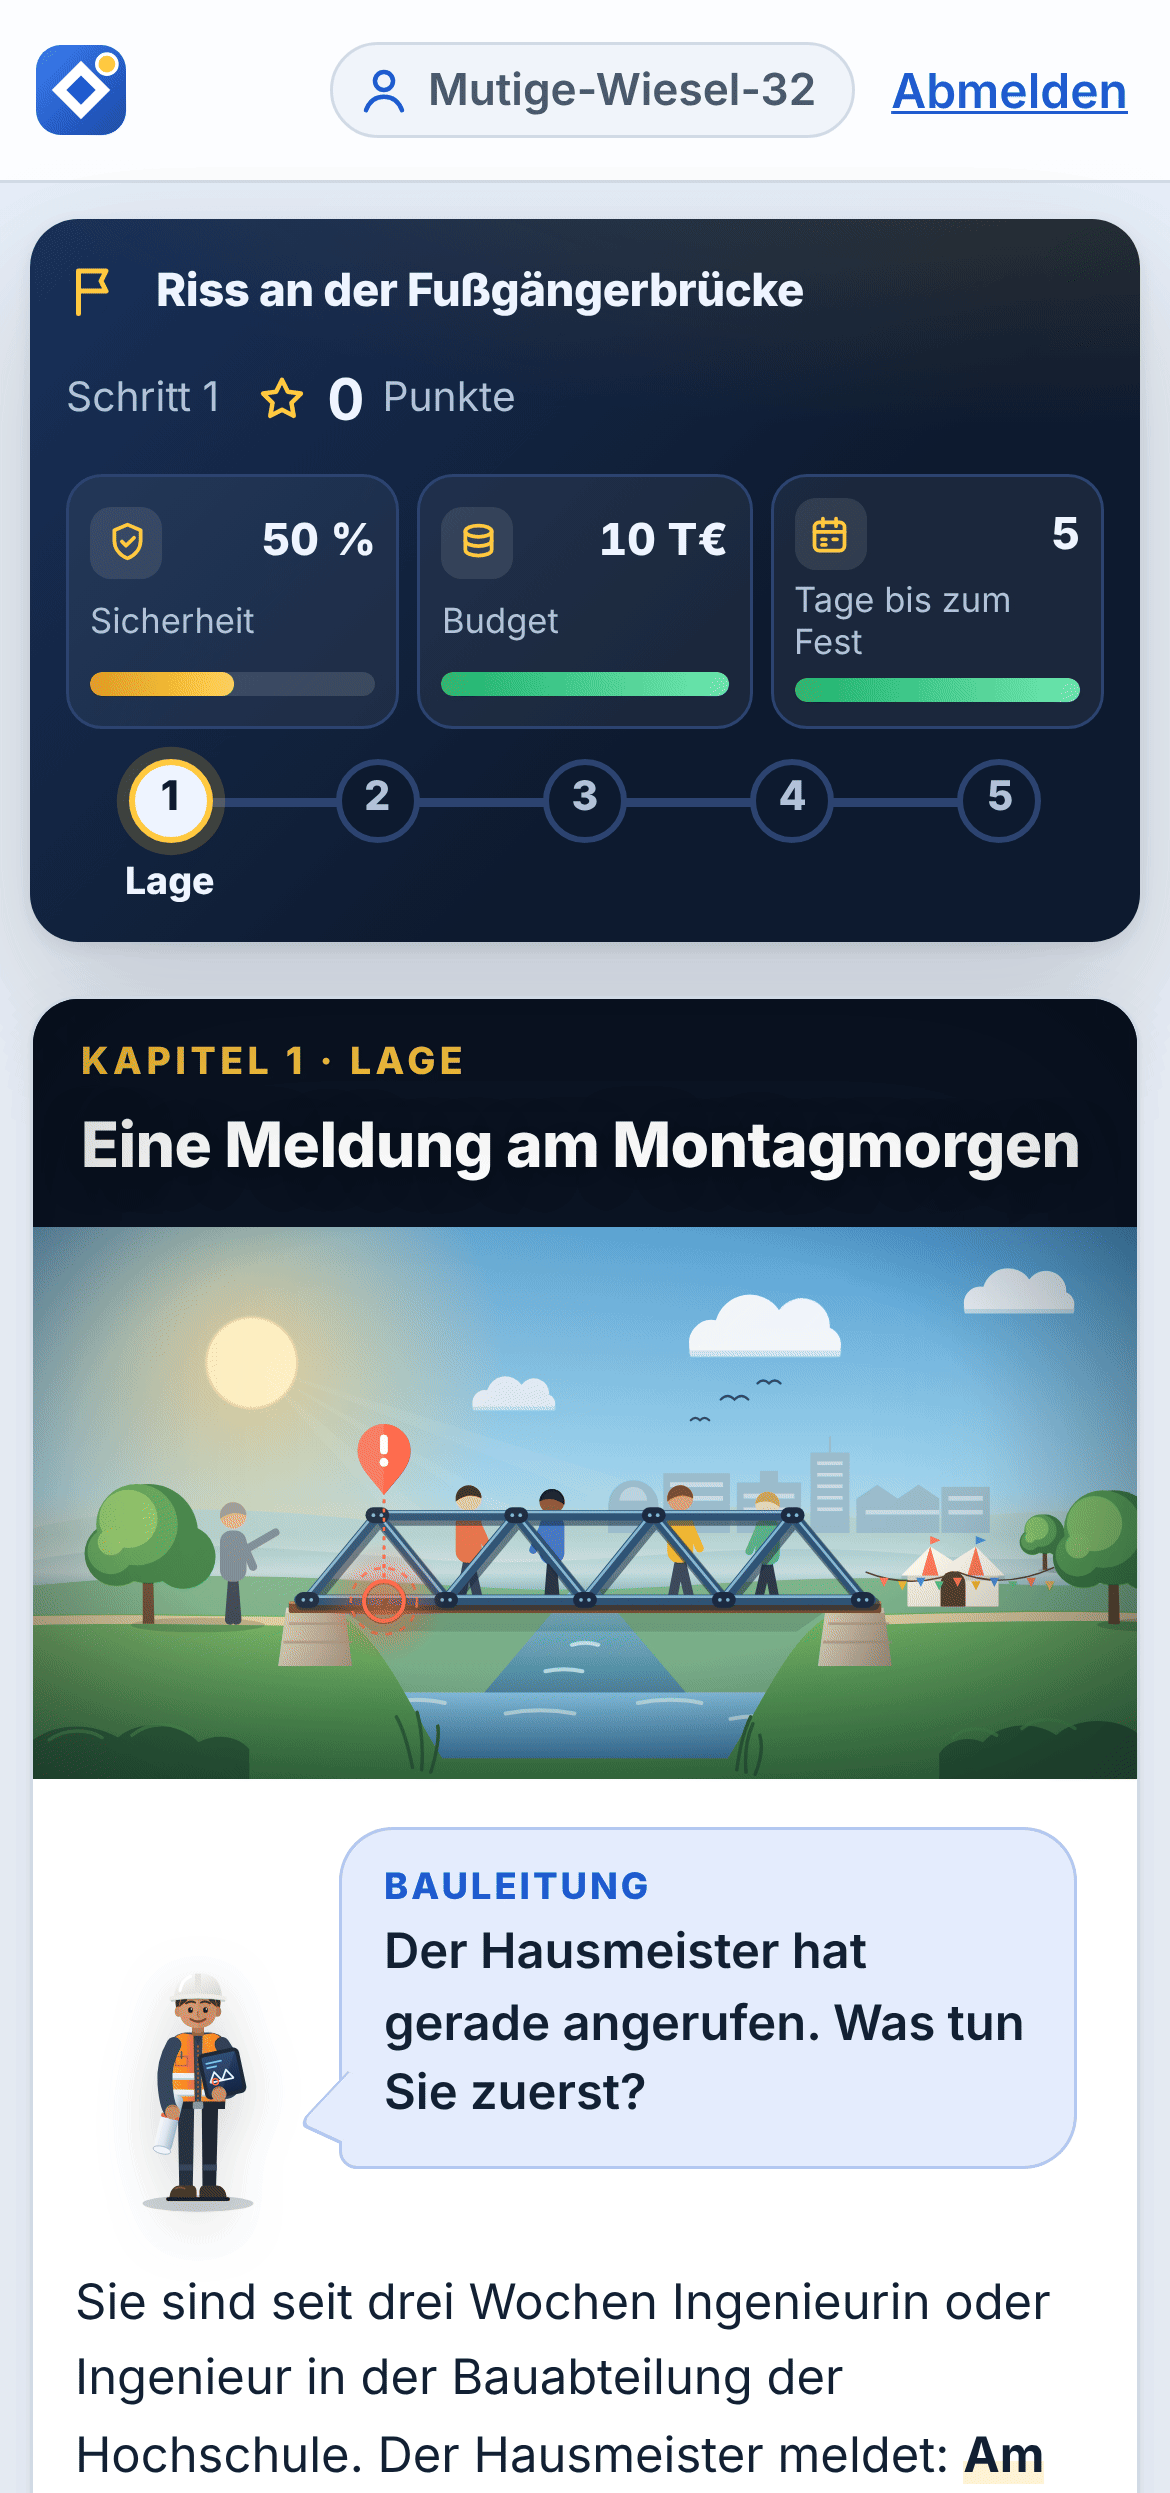
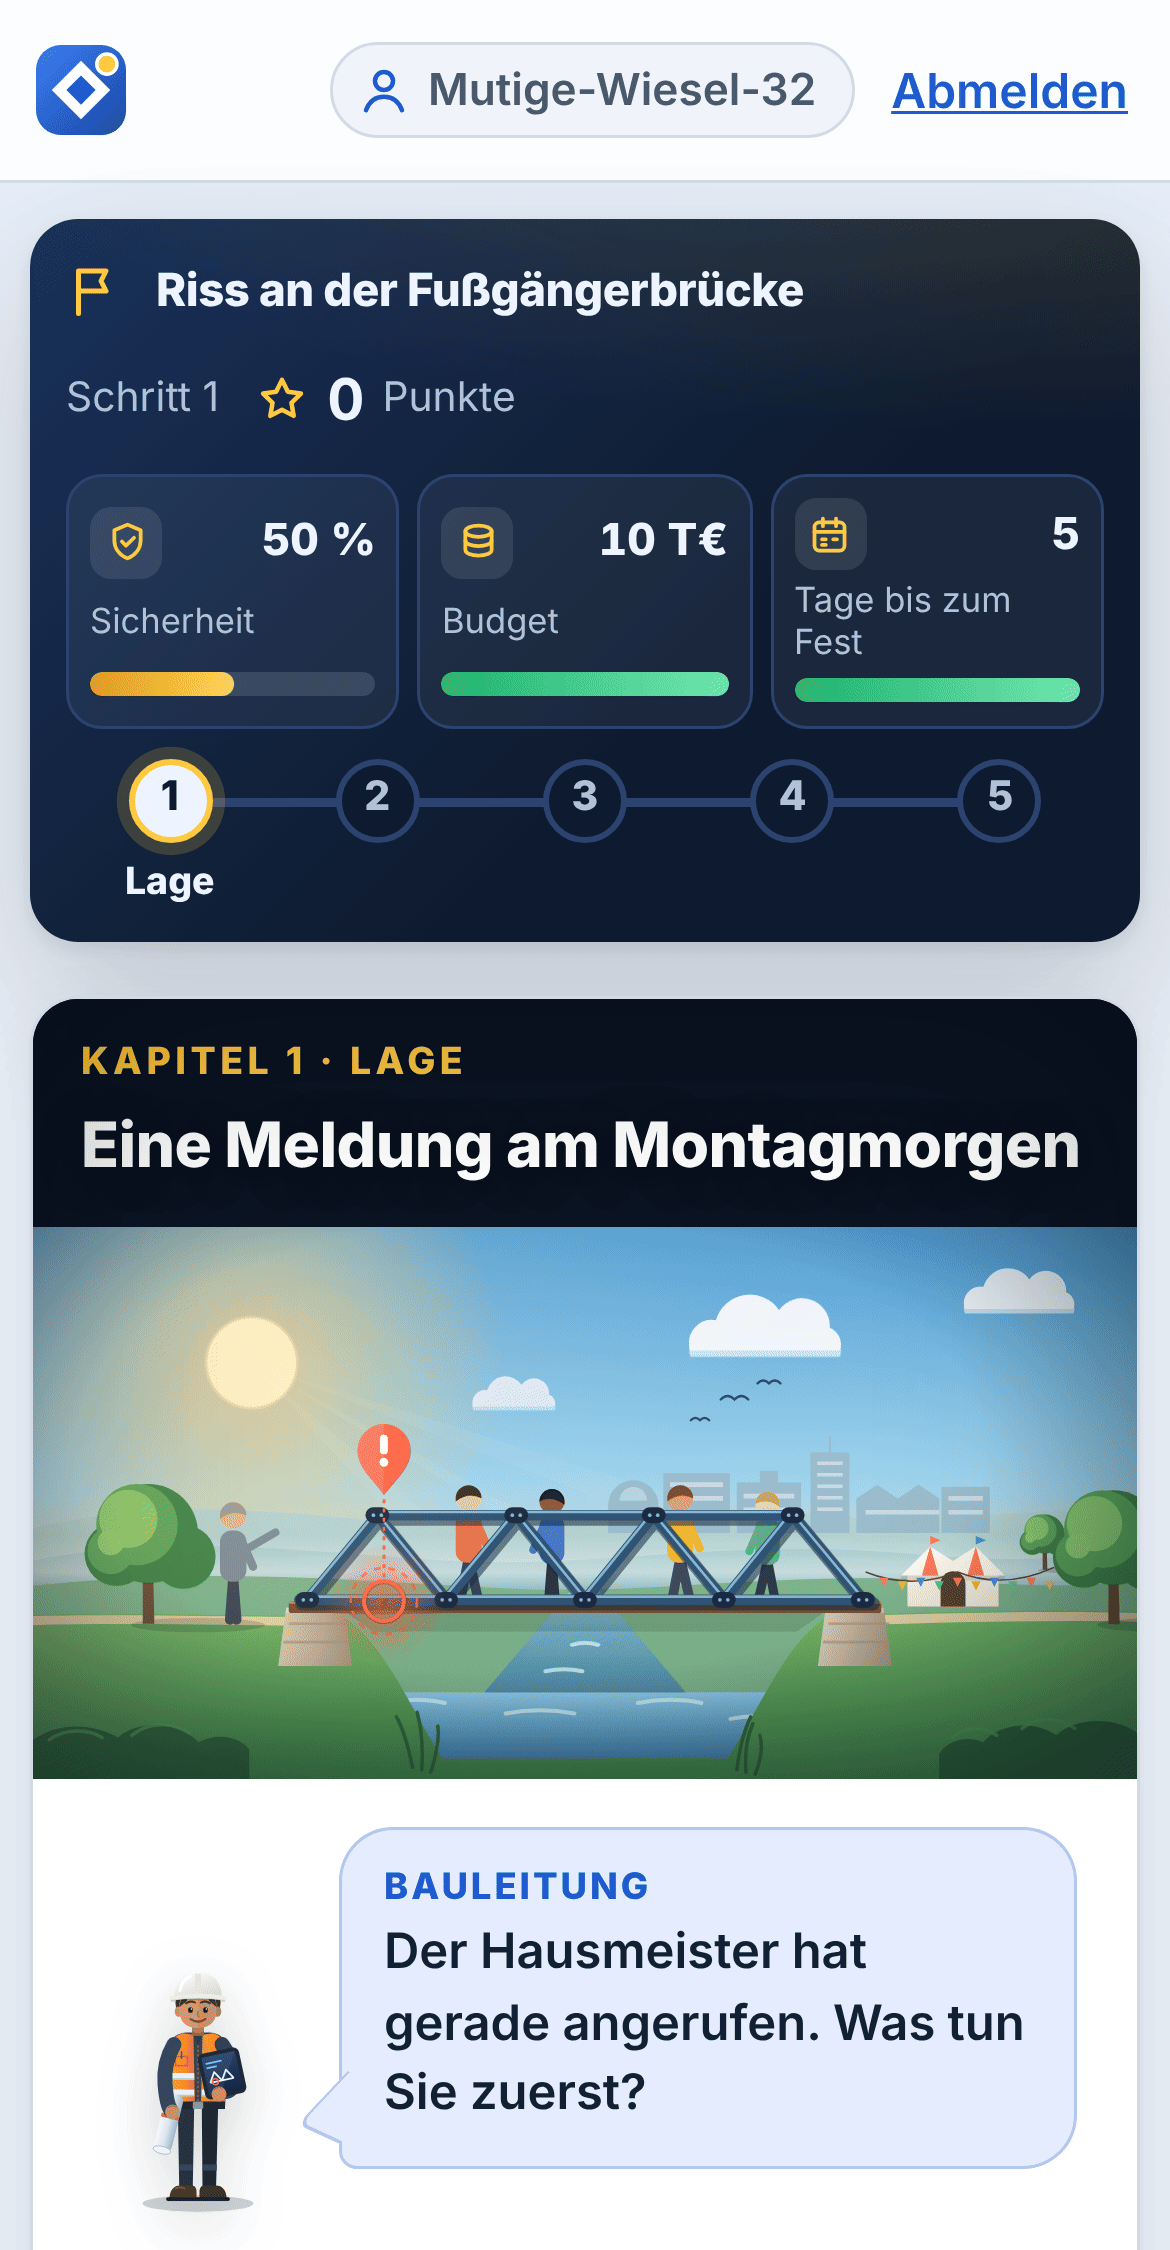
README: Satz mit Verb, „in Chromium“, Telefonbild ganz; Offline-Fassung 322 KB (Bytes statt Zeichen); ERWEITERN: Signatur von pruefe()

diff --git a/tools/oer-export.js b/tools/oer-export.js
@@ -18,4 +18,4 @@ mkdirSync(values.ziel, { recursive: true });
 const name = `${s.id}-v${s.version}`;
 writeFileSync(join(values.ziel, `${name}.html`), html);
 writeFileSync(join(values.ziel, `${name}.metadaten.json`), JSON.stringify(metadaten, null, 2) + '\n');
-console.log(`${join(values.ziel, name)}.html (${Math.round(html.length / 1024)} KB) und .metadaten.json geschrieben`);
+console.log(`${join(values.ziel, name)}.html (${Math.round(Buffer.byteLength(html) / 1024)} KB) und .metadaten.json geschrieben`);

diff --git a/README.md b/README.md
@@ -12,13 +12,13 @@ Spiele entstehen als Datei statt als Programm. Das läuft heute – ansehen, sel
 
 | Was Sie brauchen | läuft hier schon |
 |---|---|
-| Lernspiele im Browser, auf dem Telefon wie am Rechner | zwei Beispielspiele (Technische Mechanik, Elektrotechnik) mit Szenenbildern, Spielfigur mit Sprechblase, Spielanzeige, Kapitelkarte, Sternen und Auszeichnungen; das Brückenspiel im Chromium auf Rechner- und Telefonbreite und im dunklen Schema durchgespielt (09.11.2026) |
+| Lernspiele im Browser, auf dem Telefon wie am Rechner | zwei Beispielspiele (Technische Mechanik, Elektrotechnik) mit Szenenbildern, Spielfigur mit Sprechblase, Spielanzeige, Kapitelkarte, Sternen und Auszeichnungen; das Brückenspiel in Chromium auf Rechner- und Telefonbreite und im dunklen Schema durchgespielt (09.11.2026) |
 | Entscheidungen mit Folgen | jede Entscheidung verändert sichtbar Sicherheit, Budget und Tage bis zum Fest; eine fachliche Bewertung und die Spielfigur erklären, warum |
 | Rückmeldung, die beim Lernen hilft | typische Fehler werden erkannt und erklärt; zweiter Versuch, Hinweis, Lösung mit Rechenweg |
 | Lernfortschritt und Auswertung für Lehrende | Stand je Lernziel; Diagramme: Ausgang der Versuche, je Aufgabe der Anteil „im ersten Versuch richtig“, die häufigsten Fehler, die Verteilung der Entscheidungen |
 | Datenschutz | keine Namen, keine E-Mail-Adressen, zufällige Pseudonyme; Auswertung in der Oberfläche nur als Summen ab 3 Personen; Löschen auf Knopfdruck |
 | Neue Inhalte ohne Programmierung | Lernspiele sind Dateien; die Prüfung meldet Fehler auf Deutsch mit Fundstelle; jede Version bleibt erhalten |
-| Offene Lernressourcen (OER) | Export als eine einzige HTML-Datei (321 KB mit allen Bildern), läuft ohne Server und ohne Internet: 0 Netzanfragen (09.11.2026); Metadaten nach dem Profil AMB |
+| Offene Lernressourcen (OER) | Export als eine einzige HTML-Datei (322 KB mit allen Bildern), läuft ohne Server und ohne Internet: 0 Netzanfragen (09.11.2026); Metadaten nach dem Profil AMB |
 | Viele Studierende | Lasttest mit 300 simulierten Studierenden, mit Denkzeit: 0 Fehler, 95 % der Antworten unter 0,16 s; 200 simulierte im selben Augenblick: 0 Fehler (09.11.2026) |
 | Barrierefreiheit | automatische Prüfung mit axe-core (WCAG 2.0/2.1 A und AA, WCAG 2.2 AA): 0 Verstöße in 22 Zuständen, auch auf dem Telefon und im dunklen Schema (09.11.2026); Farbe trägt nie allein Bedeutung; Bewegung lässt sich abschalten |
 | Schlank und sicher | erste Seite 16 Dateien, 37 KB übertragen, keine Dateien von fremden Servern (09.11.2026); Lösungen und Formeln verlassen den Server nicht |
@@ -32,7 +32,7 @@ Jede Zahl steht mit Messweg im [Messprotokoll vom 09.11.2026](nachweis/PROTOKOLL
 ## In zwei Minuten selbst prüfen
 
 1. **Ohne Installation spielen:** die [Offline-Fassung](demo/fussgaengerbruecke-v2.html) öffnen, rechts über dem
-   Quelltext auf „Download raw file“ (Pfeil nach unten) klicken, die Datei (321 KB) per Doppelklick im Browser öffnen.
+   Quelltext auf „Download raw file“ (Pfeil nach unten) klicken, die Datei (322 KB) per Doppelklick im Browser öffnen.
    Das Brückenspiel läuft vollständig, ohne Server und ohne Internet; der Fortschritt bleibt auf Ihrem Gerät.
    (Gemessen in Chrome.)
 2. **Die ganze Anwendung starten** – mit [Docker Desktop](https://www.docker.com/products/docker-desktop/), drei
@@ -68,7 +68,7 @@ Jede Zahl steht mit Messweg im [Messprotokoll vom 09.11.2026](nachweis/PROTOKOLL
 <td valign="top"><img src="medien/bild-ergebnis.png" alt="Ergebnis „Sicher zum Fest“: Feuerwerk über der Brücke, drei von drei Sternen, 40 von 45 Punkten, drei von fünf Auszeichnungen und der Stand je Lernziel"><br><sub>Ergebnis: Sterne, Punkte, Auszeichnungen und der Stand je Lernziel.</sub></td>
 </tr>
 <tr>
-<td valign="top" align="center"><img src="medien/bild-telefon.png" width="300" alt="Das Brückenspiel auf einem Telefon: Spielanzeige, Kapitelkarte, Szenenbild, Bauleitung mit Sprechblase und der Anfang des Szenentexts"><br><sub>Auf dem Telefon: dasselbe Spiel im Browser, ohne App.</sub></td>
+<td valign="top" align="center"><img src="medien/bild-telefon.png" width="300" alt="Das Brückenspiel auf einem Telefon: Spielanzeige, Kapitelkarte, Szenenbild und Bauleitung mit Sprechblase"><br><sub>Auf dem Telefon: dasselbe Spiel im Browser, ohne App.</sub></td>
 <td valign="top"><img src="medien/bild-auswertung.png" alt="Auswertung für Lehrende: Kennzahlen mit Symbolen, Ausgang der Versuche als gestapelter Balken und Ring, je Aufgabe der Anteil im ersten Versuch richtig, häufigste Fehler"><br><sub>Auswertung für Lehrende mit Diagrammen; nur Summen, erst ab drei Personen. Zahlen aus einem Lasttest mit 200 simulierten Studierenden, dazu drei Testdurchläufe.</sub><br><br><img src="medien/bild-szenario-pruefen.png" alt="Bereich für Lehrende: Szenario-Datei prüfen, Fehlermeldung mit Fundstelle: knoten.diagonale.loesung „teta“ ist kein Parameter des Szenarios"><br><sub>Neue Spiele sind Dateien: Die Prüfung meldet einen Tippfehler in einer Formel auf Deutsch, mit Fundstelle.</sub></td>
 </tr>
 </table>
@@ -238,8 +238,8 @@ node tools/pruefe.js inhalte/szenarien/*/szenario.json  # Szenarien prüfen
 ```
 
 Die Nachweis-Messung (Lasttest mit 50 und 200 simulierten Personen im selben Augenblick und 300 simulierten mit
-Denkzeit, Durchspielen im echten Chrome auf Desktop- und Telefonbreite und im dunklen Schema, Barrierefreiheit mit
-axe-core, Offline-Fassung); ohne Docker siehe [Messprotokoll](nachweis/PROTOKOLL.md):
+Denkzeit, Durchspielen in echtem Chrome auf Desktop- und Telefonbreite und im dunklen Schema, Barrierefreiheit mit
+axe-core, Offline-Fassung) startet mit Docker so; ohne Docker siehe [Messprotokoll](nachweis/PROTOKOLL.md):
 
 ```bash
 docker compose -p spielbaukasten-nachweis -f compose.nachweis.yaml up --build --abort-on-container-exit --exit-code-from messung

diff --git a/docs/ERWEITERN.md b/docs/ERWEITERN.md
@@ -8,7 +8,7 @@ bleiben unverändert.
    ```js
    export const zuordnung = {
      typ: 'zuordnung',
-     pruefe(def, pfad) { return []; },               // Fehler im Szenario: [{ pfad, meldung }]
+     pruefe(def, pfad, { bekannteNamen }) { return []; },  // Fehler im Szenario: [{ pfad, meldung }]
      loesung(def, werte) { return '…'; },            // Text, der nach dem letzten Fehlversuch erscheint
      bewerte(def, antwort, werte) {                  // { gueltig, richtig, rueckmeldung, typ? }
        return { gueltig: true, richtig: false, rueckmeldung: '…' };

diff --git a/nachweis/PROTOKOLL.md b/nachweis/PROTOKOLL.md
@@ -101,7 +101,7 @@ ohne Server) im Browser auf Telefonbreite durchgespielt: **Erfolg**, **0 Netzanf
 dem Spielbaukasten (AGPL-3.0).“
 
 Die Datei im Repository, [`demo/fussgaengerbruecke-v2.html`](../demo/fussgaengerbruecke-v2.html), ist mit
-`tools/oer-export.js` erzeugt (321 KB; sie unterscheidet sich nur in der eingetragenen Adresse).
+`tools/oer-export.js` erzeugt (322 KB; sie unterscheidet sich nur in der eingetragenen Adresse).
 
 ## 6. Bildschirmfotos
 
